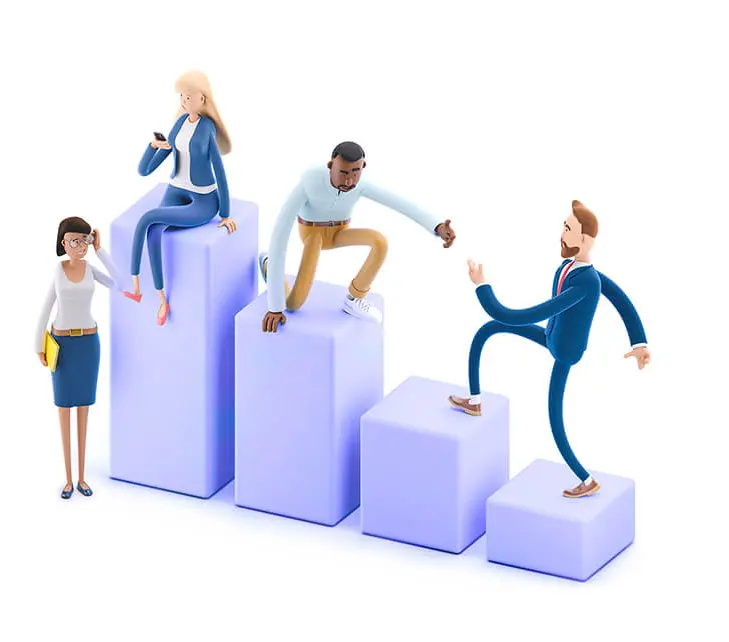
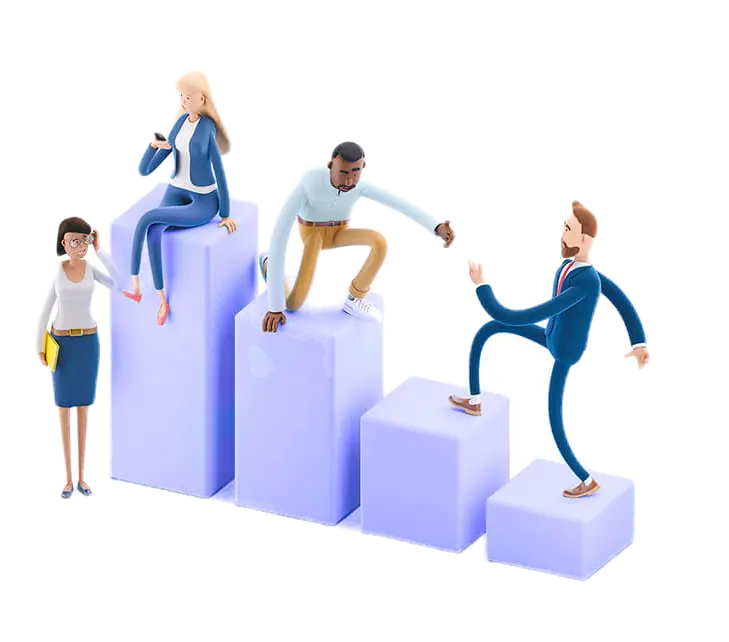
8/30/2024

diff --git a/src/Components/ContactUsForm/ContactUsForm.jsx b/src/Components/ContactUsForm/ContactUsForm.jsx
@@ -1,0 +1,55 @@
+import React from 'react';
+import { useForm } from 'react-hook-form';
+import Button from '../Button/Button';
+import './ContactUsForm.css';
+
+const ContactUsForm = () => {
+
+    const { register, handleSubmit } = useForm();
+
+    const onSubmit = (data) => {
+        console.log(data);
+        // انجام هر کاری که شما نیاز دارید با دادهها
+    };
+
+    return (
+        <form className="form" onSubmit={handleSubmit(onSubmit)}>
+            <h3>تماس با ما</h3>
+            <div className="form-content">
+                <div className="form-section1">
+                    <input
+                        className='form-section1-input1'
+                        placeholder='نام شما *' type="text"
+                        {...register('name', { required: true })}
+                    />
+                    <input
+                        className='form-section1-input2'
+                        placeholder='شماره تلفن شما *'
+                        type="tel"
+                        {...register('phone', { required: true })}
+                    />
+                </div>
+                <input
+                    className='form-input'
+                    placeholder='ایمیل شما'
+                    type="email"
+                    {...register('email', { required: false })}
+                />
+                <textarea
+                    className='form-textarea'
+                    placeholder="پیام ..."
+                    {...register('message', { required: true })}
+                ></textarea>
+                <div>
+                    <Button
+                        intent='primary'
+                        size='large'
+                        label='ارسال'
+                    />
+                </div>
+            </div>
+        </form>
+    )
+}
+
+export default ContactUsForm;

diff --git a/src/Components/ContactUsForm/ContactUsForm.css b/src/Components/ContactUsForm/ContactUsForm.css
@@ -1,0 +1,89 @@
+.form {
+    background-color: var(--main-blue2);
+    display: flex;
+    flex-direction: column;
+    gap: 25px;
+    margin: 0 auto;
+    padding: 40px;
+    border-radius: 7px;
+    width: 80%;
+}
+
+.form h3 {
+    font-size: 1.5rem;
+    color: var(--main-color1);
+}
+
+.form-content {
+    display: flex;
+    flex-direction: column;
+    flex-wrap: wrap;
+    gap: 10px;
+}
+
+.form-section1 {
+    display: flex;
+    gap: 10px;
+}
+
+.form-section1-input1 {
+    padding: 23px 15px;
+    border: none;
+    outline: none;
+    border-radius: 7px;
+    background-color: var(--main-blue5);
+    color: var(--main-color1);
+    font-size: 1.02rem;
+    width: 100%;
+}
+
+
+.form-section1-input2 {
+    padding: 23px 15px;
+    border: none;
+    outline: none;
+    border-radius: 7px;
+    direction: rtl;
+    background-color: var(--main-blue5);
+    color: var(--main-color1);
+    font-size: 1.02rem;
+    width: 100%;
+}
+
+.form-input {
+    padding: 23px 15px;
+    border: none;
+    outline: none;
+    border-radius: 7px;
+    background-color: var(--main-blue5);
+    color: var(--main-color1);
+    font-size: 1.02rem;
+    width: 100%;
+}
+
+.form-textarea {
+    padding: 23px 15px;
+    border: none;
+    outline: none;
+    border-radius: 7px;
+    background-color: var(--main-blue5);
+    color: var(--main-color1);
+    font-size: 1.02rem;
+    resize: vertical;
+    width: 100%;
+}
+
+.form-section1-input1::placeholder,
+.form-section1-input2::placeholder,
+.form-input::placeholder,
+.form-textarea::placeholder {
+    color: var(--main-color1);
+    transition: .3s all ease-in-out;
+}
+
+.form-section1-input1:focus::placeholder,
+.form-section1-input2:focus::placeholder,
+.form-input:focus::placeholder,
+.form-textarea:focus::placeholder {
+    color: transparent;
+}

diff --git a/src/Components/ServicesBox/ServicesBox.css b/src/Components/ServicesBox/ServicesBox.css
@@ -20,8 +20,7 @@
     display: flex;
     flex-direction: column;
     align-items: center;
-    border: 1px solid var(--main-blue3);
-    background-color: var(--main-blue3);
+    background-color: var(--main-blue5);
     width: 300px;
     height: 370px;
     border-radius: 20px;
@@ -63,18 +62,13 @@
     display: flex;
     align-items: center;
     justify-content: center;
-    gap: 5px;
+    gap: 10px;
     padding-right: 30px;
 }
 
-.services-section1-bottom-box button {
-    outline: none;
-    border: none;
-    background-color: var(--main-blue3);
+.services-section1-bottom-box span {
     color: var(--primary-color);
-    cursor: pointer;
     z-index: 4;
-    padding: 15px;
     border-radius: 8px;
     transition: .4s all ease-in-out;
 }
@@ -91,10 +85,10 @@
     color: var(--main-color1);
 }
 
-.services-section1-bottom-box:hover.services-section1-bottom-box button {
+.services-section1-bottom-box:hover.services-section1-bottom-box span {
     color: var(--main-color1);
 }
 
 .services-section1-bottom-box:hover.services-section1-bottom-box img {
-    transform: translateX(137px);
+    transform: translateX(130px);
 }

diff --git a/src/Components/ServicesBox/ServicesBox.jsx b/src/Components/ServicesBox/ServicesBox.jsx
@@ -31,7 +31,7 @@ const ServicesBox = () => {
                                     <span className='box-title'>{item.title}</span>
                                     <p className='box-text'>{item.text}</p>
                                     <div className='box-div'>
-                                        <button>بیشتر بدانید</button>
+                                        <span>بیشتر بدانید</span>
                                         <img
                                             src={arrow_left}
                                             alt="arrowLeft"

diff --git a/src/Pages/ContactUs.jsx b/src/Pages/ContactUs.jsx
@@ -1,8 +1,9 @@
 import './CSS/ContactUs.css';
-import image1 from '../Components/Assets/Images/img-26-2.webp';
+import image1 from '../Components/Assets/Images/img-26-2.png';
 import icon1 from '../Components/Assets/Images/email-icon.png';
 import icon2 from '../Components/Assets/Images/phone-icon.png';
 import Header from '../Components/Header/Header';
+import ContactUsForm from '../Components/ContactUsForm/ContactUsForm';
 
 const ContactUs = () => {
 
@@ -51,6 +52,7 @@ const ContactUs = () => {
           </div>
         </div>
       </div>
+      <ContactUsForm />
     </div>
   )
 }

diff --git a/src/Components/HomeServices/HomeServices.jsx b/src/Components/HomeServices/HomeServices.jsx
@@ -1,7 +1,7 @@
 import React from 'react';
 import './HomeServices.css';
 import { Link } from 'react-router-dom';
-import middle_img from '../Assets/Images/img-55.webp';
+import middle_img from '../Assets/Images/img-55.png';
 import coub from '../Assets/Images/coub-img-2.png';
 import ServicesBox from '../ServicesBox/ServicesBox';
 import ServicesContent from '../ServicesContent/ServicesContent';

diff --git a/src/Pages/AboutUs.jsx b/src/Pages/AboutUs.jsx
@@ -1,6 +1,6 @@
 import React from 'react';
 import './CSS/AboutUs.css';
-import image1 from '../Components/Assets/Images/img-17.webp';
+import image1 from '../Components/Assets/Images/img-17.png';
 import image2 from '../Components/Assets/Images/confident-african.webp';
 import icon1 from '../Components/Assets/Images/icons8-tick-24 (2).png';
 import Header from '../Components/Header/Header';

diff --git a/src/Pages/Services.jsx b/src/Pages/Services.jsx
@@ -1,6 +1,6 @@
 import React from 'react';
 import './CSS/Services.css';
-import image1 from '../Components/Assets/Images/cartoon-hand-hold-seo-logo.webp';
+import image1 from '../Components/Assets/Images/cartoon-hand-hold-seo-logo.png';
 import Header from '../Components/Header/Header';
 import ServicesBox from '../Components/ServicesBox/ServicesBox';
 

diff --git a/src/index.css b/src/index.css
@@ -11,6 +11,10 @@
   src: url('./Components/Assets/Fonts/dana-medium.ttf') format('truetype');
 }
 
+body {
+  background: linear-gradient(180deg, var(--main-color2), var(--main-color1));
+}
+
 body::-webkit-scrollbar {
   width: 12px;
 }

diff --git a/src/Components/Button/Button.css b/src/Components/Button/Button.css
@@ -42,7 +42,7 @@
 }
 
 .large-size {
-    padding: 18px 28px;
+    padding: 18px 30px;
     border-radius: 8px;
     width: auto;
     height: auto;

diff --git a/src/Pages/CSS/ContactUs.css b/src/Pages/CSS/ContactUs.css
@@ -1,6 +1,7 @@
 .contactUs {
     display: flex;
     flex-direction: column;
+    padding-bottom: 100px;
 }
 
 .contactUs-section1 {
